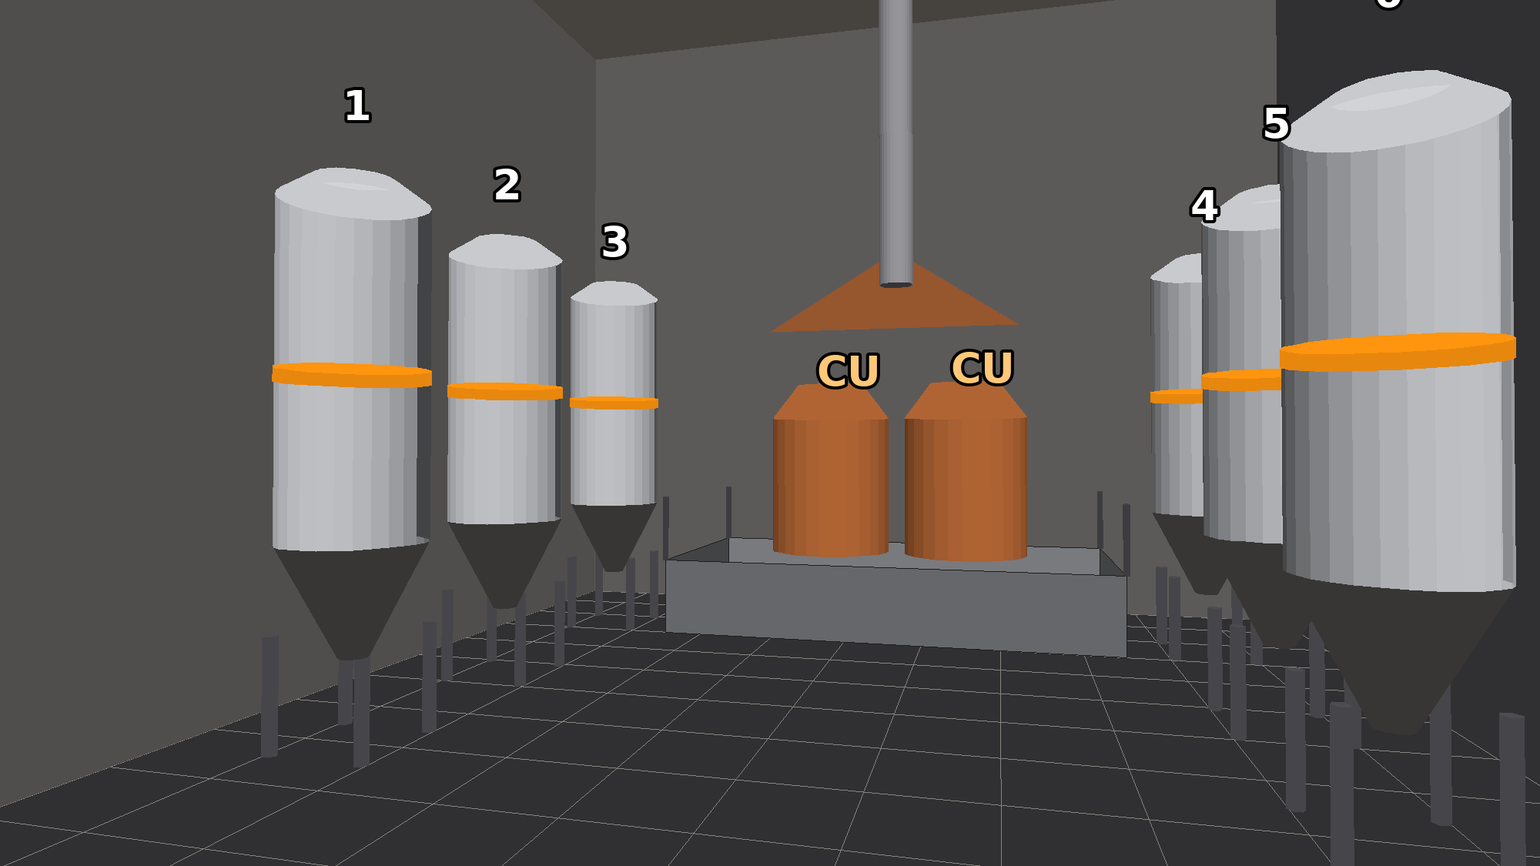
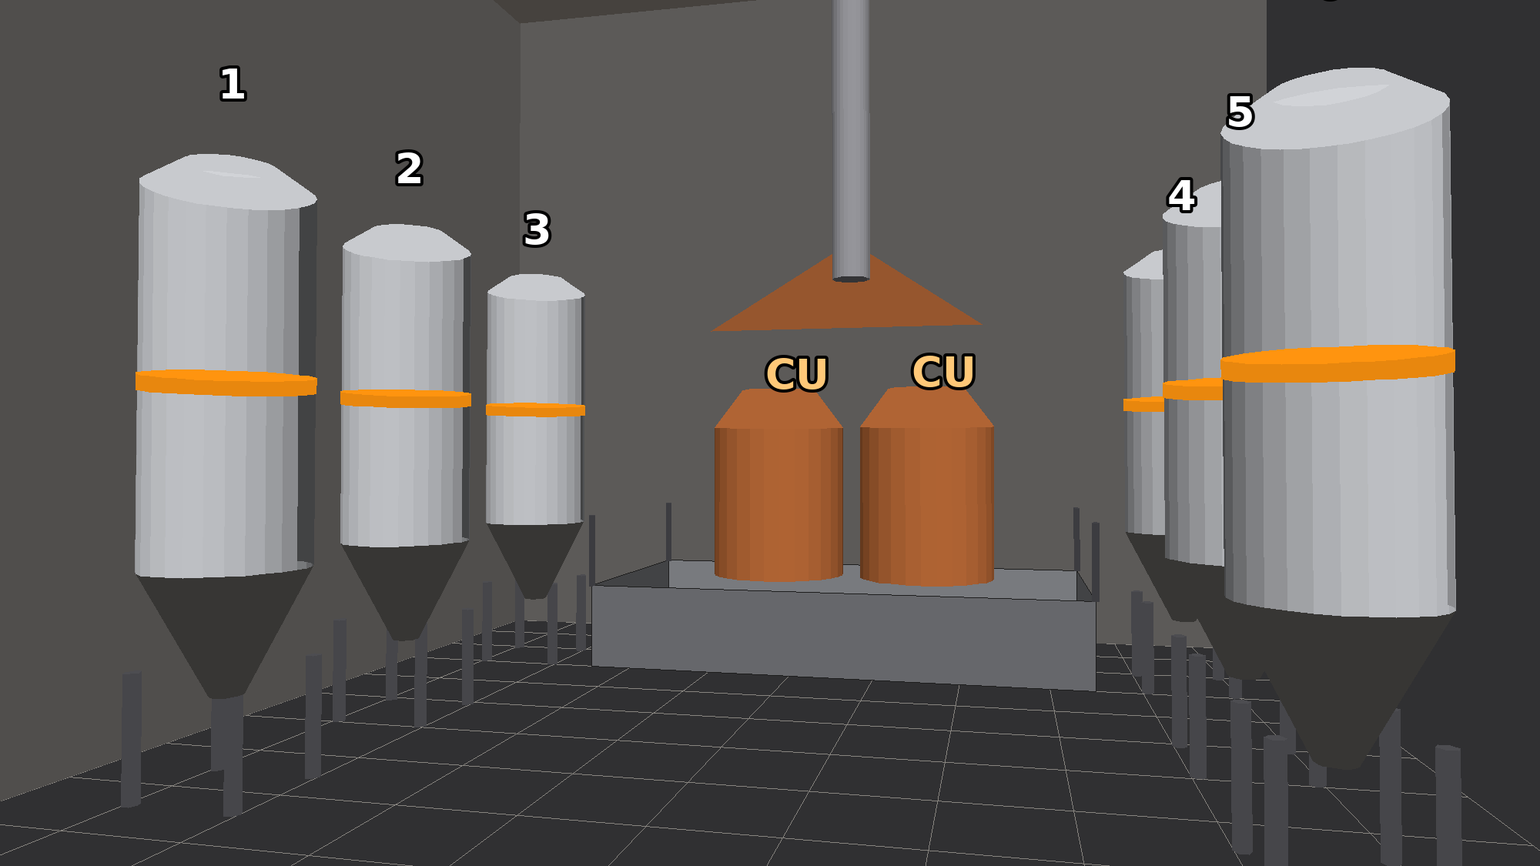
D-48: BRW-01 approved; 24mm camera, non-additive six-tank prompt, run policy, reference set
Claude-Session: https://claude.ai/code/session_0147YRZYiqd1JxwndoaNSVrj

diff --git a/visuals/tools/brw01_blockout.py b/visuals/tools/brw01_blockout.py
@@ -1,12 +1,12 @@
 #!/usr/bin/env python3
 """BRW-01 layout block-out (NOT an image of the brewery). A simple perspective projection of the LOCKED-SCENE-DNA section 4 geometry, used only
 as a layout/depth guide so a generator can count to six and see the true horseshoe. Plan units: feet; x east, y north, z up; origin = SW corner of
-the production room (44 x 48 ft; the interior glass wall is the y=0 line). Camera = on the south promenade side of the interior glass wall (about 11 ft up the mezzanine edge), SE of the hall axis, looking NNW.
+the production room (44 x 48 ft; the interior glass wall is the y=0 line). Camera = on the south promenade side of the interior glass wall (about 10.75 ft up the mezzanine edge), SE of the hall axis, looking NNW.
 Run from repo root: python3 visuals/tools/brw01_blockout.py -> visuals/generated/BRW-01-inputs/ (blockout + annotated + plan)."""
 import numpy as np, os
 from PIL import Image, ImageDraw, ImageFont
 OUT="visuals/generated/BRW-01-inputs"; W,H=2000,1125
-CAM=np.array([28.0,-11.0,10.5]); TGT=np.array([17.0,32.0,11.0]); F=21.0   # 21 mm equivalent (36 mm sensor width)
+CAM=np.array([30.0,-12.0,10.75]); TGT=np.array([20.0,32.0,11.5]); F=24.0   # 24 mm equivalent (36 mm sensor width)
 TANKS={1:(6,16),2:(6,26),3:(6,38),4:(38,38),5:(38,26),6:(38,16)}       # centres (x,y); legs 1,2 west, 3 and 4 flank the deck, 5,6 east
 R=2.5; LEG=3.0; CONE=4.0; SHELL=12.0
 fwd=TGT-CAM; fwd/=np.linalg.norm(fwd); right=np.cross(fwd,[0,0,1]); right/=np.linalg.norm(right); up=np.cross(right,fwd)

diff --git a/visuals/generation-batch-01/BRW-01.md b/visuals/generation-batch-01/BRW-01.md
@@ -1,61 +1,73 @@
 # BRW-01: Hero Tank Cloister (v2, D-47) — canonical authority for the Tank Cloister and brewing equipment
 
-- **STATUS:** NOT GENERATED — PACKAGE PREPARED; **awaiting founder approval of camera, method and gates** (D-47). Do not generate until approved.
+- **STATUS:** NOT GENERATED — **PACKAGE APPROVED FOR GENERATION (D-48)**; Run 1 (four variants) pending, to be made by the founder with ChatGPT image generation.
 - **PURPOSE:** WE MAKE THE BEER HERE. BRW-01 becomes the canonical visual authority for the Tank Cloister and equipment. It must solve what ARC-02 could not: exactly six fermenters, a true horseshoe, two copper vessels on a raised deck, and real commercial-brewery organisation.
 - **Authorities:** geometry = `LOCKED-SCENE-DNA.md` §4 + ARC-01-D (arrangement and mapping, see below). Equipment-photorealism = ARC-01-E attempt 1 **only** (never its camera, layout or symmetry). **ARC-02-A and ARC-02-C are not references for count, arrangement, cones, sleeves, deck, copper or mullions** (D-47).
 - **Original v1 prompt** (frontal, centred, daylight, two brewers, steam): superseded, kept as `BRW-01-v1-superseded.md`.
 
-## 1. PROPOSED CAMERA (intentional; replaces the ARC-02 editing setup)
-| Item | Value | Why |
-|---|---|---|
-| Position | Guest side of the interior glass wall: south promenade/mezzanine edge, **about 11 ft above the floor**, about 11 ft south of the production room, **SE of the hall axis** (plan coordinates x=28, y=-11 in a 44x48 ft room; see `BRW-01-plan-camera.png`) | Reads as the real guest vantage (promenade/mezzanine, Locked DNA §5), and is the interior continuation of the ARC-01-D hero bearing (looking NNW) |
-| Direction | NNW, about 20 degrees west of the hall's north axis | Oblique, not frontal: the horseshoe fans out and tanks overlap naturally |
-| Lens | **21-24 mm equivalent**, full frame, level, verticals straight (shift-lens look) | A 44-ft-wide hall with 19-ft tanks cannot be framed longer from inside |
-| Frame | 16:9, 2000x1125 or larger | Matches the blockout |
-| Glass | **None in frame.** Treat the interior glass as invisible: the picture is taken as if through clear, non-reflective glass; at most a thin dark-bronze edge at the extreme foreground left | Avoids the reflection and glazing failures that sank ARC-02 |
-| Time/light | Evening state: warm shielded 2200-2400K lighting dominant, narrow-beam tank-base uplights, faint indigo from the north clerestory. **Founder option:** daylight clerestory version instead (see section 6) | Evening is the state ARC-02 still needs; BRW-01 becomes its equipment reference |
-| People | **None** in the hero render (equipment is the subject; add brewers only in a later variant) | Removes extra-count and anatomy risk |
+## 1. APPROVED CAMERA (D-48)
+| Item | Value |
+|---|---|
+| Position | Guest side of the interior glass wall: south promenade/mezzanine edge, **camera height about 10.5-11 ft**, about 12 ft south of the production room, southeast of the hall axis (plan x=30, y=-12 in the 44x48 ft room; `BRW-01-plan-camera.png`) |
+| Bearing | **NNW** (about 13 degrees west of the hall's north axis), continuing ARC-01-D's visual logic |
+| Lens | **24 mm full-frame equivalent**; 22-26 mm allowed only if necessary to fit the composition. **Do not default to 21 mm** (distortion enlarges the nearest fermenter and collapses the far side of the horseshoe). Verticals corrected. Priority: readable six-tank geometry, not field of view |
+| Frame | 16:9 |
+| Glass | None visible; no frame, reflection or window edge |
+| Light | Evening/blue hour. Interior practical light about 2300K; **subtle cool ambient blue-hour fill** so stainless stays neutral and reads as stainless; restrained, architectural tank-base uplights (not theatrical beams). Do not turn the room orange |
+| People | **None** |
 
-## 2. COMPOSITION AND MAPPING (from the layout blockout; matches ARC-01-D)
-- **Left group, three tanks, receding:** tank 1 (nearest left, leg west), 2, 3 (the smallest in frame, at the north base west of the deck).
-- **Centre, raised brew deck** (~24 ft wide, 4 ft high) with **two copper-clad vessels**, copper hood, stack to the roof, stairs, 42-in guardrails; catwalk crossing behind and the west/east catwalk at +11 ft.
-- **Right group, three tanks, receding:** tank 6 **large, nearest** at the right edge, tank 5 behind it, tank 4 (north base east of the deck) furthest, partially hidden by 5 and 6. This is the same "3 | deck | 1+2 behind" arrangement seen from outside in ARC-01-D.
-- Numbering per Locked DNA: west leg south-north 1, 2; north base 3, 4; east leg north-south 5, 6. **No numerals in the image.**
-- Exactly six fermenters, two copper vessels. Every tank identical.
+## 2. COMPOSITION AND SPATIAL ORGANISATION
+Primary fact: **EXACTLY SIX FERMENTERS TOTAL, forming ONE horseshoe/U around the central raised brew deck.** The following only describes where those same six stand; it never adds tanks:
+- the **west leg recedes northward** (two fermenters, the nearer on the left of frame);
+- the **north pair flank the brew deck** (one west of the deck, one east of it);
+- the **east leg returns southward toward the camera** (two fermenters), the **nearest of them is spatially Tank 6** and appears large at the right edge, with the other east-leg fermenter and the east north-pair fermenter partly hidden behind it.
+Raised brew deck at the centre with **two copper-clad vessels**, hood, stack, stairs, 42-in guardrails; catwalk at +11 ft. **No numeral appears in the image.** Tank 3 is not "an extra tank beside the deck": it is the west member of the north pair.
 
 ## 3. EQUIPMENT VISIBILITY (must be legible, not decorative)
-Polished stainless shell; **matte graphite insulated cone** (clearly darker than the shell); four legs with foot plates; round side manway with clamp; sample valve; thermowell; dished top with top manway, relief/spunding fitting and CIP arm; butterfly valves at the cone outlets; **tri-clamp** fittings; restrained sanitary piping on the inner side of the horseshoe; pumps and a valve train at the deck foot; coiled sanitary hoses on hooks; stainless hot-liquor tank on the deck; **stainless trench drains** along the legs and in front of the deck (floor slopes to them); light **warm-grey seamless satin floor**; **exactly one narrow (~6 in) deep-marigold (~#E8870E) removable powder-coated sleeve** per fermenter (not paint, not yellow, not glowing). Copper only on the two vessels and the hood. No brass.
+Polished stainless shell; **matte graphite insulated cone** (clearly darker than the shell); four legs with foot plates; round side manway with clamp; sample valve; thermowell; dished top with top manway, relief/spunding fitting and CIP arm; butterfly valves at the cone outlets; **tri-clamp** fittings; restrained sanitary piping on the inner side of the horseshoe; pumps and a valve train at the deck foot; coiled sanitary hoses on hooks; stainless hot-liquor tank on the deck; **stainless trench drains** along the legs and in front of the deck (floor slopes to them); light **warm-grey seamless satin floor**; **exactly one narrow (~6 in) deep-marigold (~#E8870E) removable powder-coated sleeve** per fermenter (not paint, not yellow, not glowing). Exactly two copper-clad brewing vessels; the copper may continue into their associated hood/duct where the locked design requires, but no additional copper tanks. No brass.
 
-## 4. INPUTS (`visuals/generated/BRW-01-inputs/` unless noted)
+## 4. INPUTS (`visuals/generated/BRW-01-inputs/`), in priority order
 | # | File | Role |
 |---|---|---|
-| 1 | `BRW-01-layout-blockout.png` (2000x1125) | **Structure/layout guide** (depth/blockout). Six cylinders, graphite cones, sleeves, deck, two copper cylinders, hood and stack, from the proposed camera. Geometry only: copy count, positions, scale and camera, not its flat look. Not a photograph |
-| 2 | `visuals/generated/ARC-01-E-inputs/ARC-01-D-hall-crop-2x.png` | Arrangement reference (daylight exterior view of the same hall) |
-| 3 | `visuals/generated/ARC-01-E-external-crop-attempt1.webp` | **Equipment-realism reference only** |
-| - | `BRW-01-layout-blockout-annotated.png`, `BRW-01-plan-camera.png` | For humans only. **Do not upload the annotated version to the generator** (numerals leak into the image) |
+| 1 | `BRW-01-layout-blockout.png` (2000x1125, unannotated) | **Composition / spatial-count reference.** Six cylinders, graphite cones, sleeves, deck, two copper cylinders, hood, stack, at the approved camera. Not a photograph; copy count, positions, scale and camera, not its flat look |
+| 2 | `2-ARC-01-D-hall-arrangement-ref.png` (1740x840) | **Canonical architectural/arrangement reference** (the hall from outside, daylight). Arrangement only |
+| 3 | `3-ARC-01-E-attempt1-equipment-realism-ref-ONLY.png` (2000x965) | **Equipment-detail/photorealism reference ONLY.** Do not inherit its frontal symmetry, camera or layout |
+| - | `BRW-01-layout-blockout-annotated.png`, `BRW-01-plan-camera.png` | Humans only. **Do NOT upload the annotated blockout** (numerals leak) |
+Not references: ARC-02-A/B/C (never for Tank Hall geometry).
 
-## 5. GENERATION METHOD (proposed)
-1. Use a model that accepts a **structure/layout reference** (image-guided generation, depth/line-guided, or "use this image as a layout") plus style references. Upload #1 as the layout/structure guide at high strength; #3 for equipment detail; #2 for arrangement only. Text prompt below.
-2. If the tool only supports one image: upload #1 and use the text; add #3 in a second pass for detail only if needed.
-3. Generate **4 variants in one run**. Select by count. If a variant has the right count, a **targeted** fix may be allowed only after founder approval.
-4. **Iteration cap (proposed):** two runs (8 variants). If none passes the count/arrangement gates, stop and report; no endless regeneration (the ARC-02 lesson).
-5. Never retouch or script-grade. Log tool, model, references accepted, strength, seed, variant, date.
+## 5. GENERATION METHOD AND RUN POLICY (D-48)
+- Tool: **ChatGPT image generation** with the actual unannotated blockout plus the two canonical references. **The blockout is not mathematically enforced** (no ControlNet-level lock); the acceptance gates, not the method, decide usability.
+- **Run 1 = four variants.** STOP and formally review all four before authorising Run 2. Maximum two runs / eight variants in total.
+- If any Run-1 variant scores >= 90, has no hard fail and passes every mandatory gate, **do not generate Run 2** to look for something prettier. If all four fail, report exactly why before Run 2.
+- **Hard count gate first:** count fermenters manually twice at enlarged scale before aesthetics. 5 = reject; 6 = continue; 7+ = reject. Count copper vessels independently (exactly two).
+- No retouching, no scripted grading. Log tool, references accepted, variant, date, run number.
 
 ## MASTER PROMPT (self-contained; paste whole)
 ```
-Photorealistic professional architectural interior photograph, full-frame camera, 21-24mm equivalent shift-lens look, level camera, perfectly straight verticals, real materials, natural imperfections, no CGI look. 16:9. The camera is on the guest side of a clear glass wall at the south end of a double-height brewing hall (about 38 ft clear), about 11 ft above the floor, looking north-north-west across the open end of a horseshoe of fermenters into the brewers' working floor. No glass, frame or reflection is visible in the picture.
-Follow the supplied layout image exactly for camera, count and positions: EXACTLY SIX identical polished stainless-steel conical fermenters, each about 5 ft in diameter and about 19 ft tall including legs, in a HORSESHOE open toward the camera. Three on the left receding in depth (the nearest on the left, then two further away, the third beside the brew deck); in the centre a RAISED STEEL BREW DECK (about 4 ft high, 24 ft wide) with stairs and 42-inch guardrails carrying EXACTLY TWO copper-clad brewing vessels with domed tops (about 7 ft diameter) beneath one copper steam hood and a stack rising to the roof, with a stainless hot-liquor tank, pumps, a valve train and coiled sanitary hoses; on the right one LARGE fermenter nearest the camera, a second behind it, and a third furthest, the two behind partly hidden by the nearest one. A grated steel catwalk with 42-inch guardrails and kick plates at about 11 ft above the floor runs along both legs and behind the deck, with stairs.
-Every fermenter: polished cylindrical stainless shell with a round side manway with clamp, sample valve, tri-clamp connections, dished top with top manway, CIP arm and relief fitting; a matte GRAPHITE insulated cone clearly darker than the shell; four short legs on foot plates; butterfly valve at the cone outlet; and exactly ONE narrow (about 6 inches) deep marigold-orange removable powder-coated sleeve of about #E8870E around the middle of the shell: deep orange, not yellow, not glowing. Restrained, tidy sanitary piping on the inner side of the horseshoe. Light warm-grey seamless satin production floor with stainless trench drains along the legs and in front of the deck that catch tiny highlights, floor sloping to the drains. The equipment looks like real commercial brewery equipment, as in the equipment reference image, not like props.
-LIGHT: evening. Warm shielded 2300K architectural lighting and narrow-beam uplights at the base of each tank; the Tank Cloister is the brightest large feature but nothing is clipped; stainless shows warm elongated highlights with darker falloff; copper has restrained warm reflections; the back wall and ceiling fall off darker; faint indigo light only from the high north clerestory; realistic contact shadows; no haze, no bloom, no star flares, no god rays, no steam. No people. No logos, no text, no numerals.
+Photorealistic professional architectural interior photograph, full-frame camera, 24mm equivalent lens, level camera with corrected, perfectly straight verticals, real materials, natural imperfections, no CGI look. 16:9.
+
+THE ONE RULE: EXACTLY SIX FERMENTERS TOTAL, forming ONE horseshoe (U) around a central raised brew deck. Six, not five, not seven, not eight. Everything below only describes where those same six stand; it never adds a tank.
+
+Use the first reference image (a plain 3D layout block-out) for camera position, composition, count and spatial positions; use the second reference (the building from outside) for the hall and the arrangement; use the third reference only for the level of real sanitary-brewery equipment detail, not for its camera or layout. The result must be a photograph of real equipment, not a copy of the flat block-out.
+
+Camera: on the guest side of a clear glass wall at the south end of a double-height brewing hall (about 38 ft clear), about 10.5 to 11 ft above the floor, southeast of the hall axis, looking north-north-west across the open end of the horseshoe into the brewers' working floor. Oblique, not frontal, not symmetric. No glass, window frame or reflection is visible.
+
+Spatial organisation of the six fermenters: the west leg recedes northward (two fermenters, on the left of the frame); the two fermenters of the north pair flank the central brew deck (one west of it, one east of it); the east leg returns southward toward the camera (two fermenters), its nearest fermenter standing large at the right edge of the frame with the other east-leg fermenter and the east north-pair fermenter partly hidden behind it. No numerals appear anywhere.
+
+Centre: a raised steel brew deck (about 4 ft high, 24 ft wide) with stairs and 42-inch guardrails carrying EXACTLY TWO copper-clad brewing vessels with domed tops (about 7 ft diameter) beneath one copper steam hood and stack rising to the roof, with a stainless hot-liquor tank, pumps, a valve train and restrained coiled sanitary hoses. A grated steel catwalk with 42-inch guardrails and kick plates at about 11 ft above the floor runs along both legs and behind the deck, with stairs. No brass.
+
+Every fermenter is identical, about 5 ft in diameter and 19 ft tall including legs: a polished stainless cylindrical shell with a round side manway with clamp, sample valve, tri-clamp connections, dished top with top manway, CIP arm and relief fitting; a matte GRAPHITE insulated cone clearly darker than the shell; four short legs on foot plates; a butterfly valve at the cone outlet; and exactly ONE narrow (about 6 inches) deep marigold-orange removable powder-coated sleeve of about #E8870E around the middle of the shell (deep orange, not yellow, not glowing). Restrained, tidy sanitary piping on the inner side of the horseshoe. A light warm-grey seamless satin production floor with stainless trench drains along the legs and in front of the deck that catch tiny highlights, floor sloping to the drains. It looks like real commercial brewery equipment, not props.
+
+Light: blue-hour evening. Interior practical lighting about 2300K, shielded and low, plus subtle cool blue-hour ambient fill from the high north clerestory, so the stainless stays neutral and reads as stainless; the room must not turn orange. Narrow, restrained, architectural uplights at the base of each tank, not theatrical beams. The tank cloister is the brightest large feature but nothing is clipped; stainless shows warm elongated highlights with darker falloff; copper has restrained warm reflections; the back wall and ceiling fall off darker; realistic contact shadows. No people. No logos, text or numerals. No haze, bloom, star flares, god rays or steam.
 ```
 
 ## NEGATIVE
 ```
-five tanks, seven tanks, eight tanks, extra fermenters, straight row of tanks, circular arrangement, frontal symmetric view, changed camera, silver cones, orange or yellow cones, thick sleeves, yellow sleeves, glowing sleeves, painted bands, extra copper vessels, brass, glass reflections, window frames, daytime sky, orange wash, glossy showroom floor, wet mirror floor, star flares, bloom, HDR, haze, fog, steam, neon, string lights, pendant lights, logos, text, numerals, people, patterned or decorated tanks, sci-fi or fantasy machinery, glowing pipes, cartoon, CGI look
+five tanks, seven tanks, eight tanks, extra fermenters, straight row of tanks, circular arrangement, frontal symmetric view, changed camera, silver cones, orange or yellow cones, thick sleeves, yellow sleeves, glowing sleeves, painted bands, extra copper vessels, brass, glass reflections, window frames, daytime sky, orange wash, amber monochrome room, glossy showroom floor, wet mirror floor, star flares, bloom, HDR, haze, fog, steam, neon, string lights, pendant lights, logos, text, numerals, people, patterned or decorated tanks, sci-fi or fantasy machinery, glowing pipes, cartoon, CGI look
 ```
 
-## 6. FOUNDER DECISIONS NEEDED BEFORE GENERATING
-(a) Camera as proposed? (b) Evening lighting, or the daylight version? (c) No people in the hero render? (d) Iteration cap of two runs? (e) A different tool that accepts a layout/structure reference, since the tool used for ARC-02 ignored the mask.
+## 6. Founder decisions (all resolved, D-48)
+Camera approved with refinement (24 mm, 10.5-11 ft); evening/blue hour with cool ambient fill; no people; two-run cap; ChatGPT image generation with the unannotated blockout.
 
 ## ACCEPTANCE (see `visuals/generated/BRW-01-REVIEW-SHEET.md`; do not lower)
 Six fermenters counted twice; two copper vessels; horseshoe/oblique arrangement matches the blockout and D mapping; graphite cones; six narrow ~#E8870E sleeves; deck, hood, stack, stair, guardrails, catwalk; sanitary piping, tri-clamps, butterfly valves, pumps, hoses; legs/foot plates; trench drains visible; warm-grey satin floor; evening lighting without orange wash; brewer-credible equipment; rubric >= 90, no hard fail, founder approval.

diff --git a/docs/decisions/DECISIONS.md b/docs/decisions/DECISIONS.md
@@ -61,3 +61,4 @@
 | D-45 | 2026-10-10 | **Founder decision:** ARC-02-A waiver REJECTED (eight-tank hall, no canonical brewhouse; stays the best night-exterior reference, not canonical). ARC-02-B REJECTED (scripted grade proves pixel grading cannot make a convincing night hall; kept for provenance only). Authorized **one** controlled generative attempt, ARC-02-C: masked replacement of only the interior behind the Tank Hall glazing; ARC-02-A = night exterior authority, ARC-01-D = hall camera/mullion/six-tank geometry, ARC-01-E attempt 1 = equipment-realism reference only. 13-gate acceptance, rubric >= 90, no lowering. If C fails: stop and report; no ARC-02-D automatically. Package: `generation-batch-01/ARC-02-C.md`, `ARC-02-C-REVIEW-SHEET.md`, `ARC-02-C-inputs/`, `tools/arc02c_tools.py`. |
 | D-46 | 2026-10-10 | ARC-02-C attempt 1 (founder-supplied, full-frame regeneration rather than a masked hall edit) reviewed: **67/100, FAILED**. Seven fermenters, silver cones, thick glowing sleeves, sunset/tree reflections in glass, orange wash, outside-hall and mullions not preserved; two copper vessels and brewhouse deck are good. Per D-45: STOP; no ARC-02-D automatically. ARC-02-A remains best night-exterior reference, not canonical. |
 | D-47 | 2026-10-10 | **FOUNDER: ARC-02 ON HOLD — TOOL-LIMITED; no waiver, no ARC-02-D.** ARC-02 canonical image: NONE. D-46 stop accepted; ARC-02-C attempt 1 rejected (67/100, hard fail), classed primarily as a tool/workflow limitation, not an architectural failure. **ARC-02-A = APPROVED NIGHT ATMOSPHERE REFERENCE ONLY, NON-CANONICAL GEOMETRY.** It may establish: deep-indigo blue-hour mood, overall exterior exposure, warm 2200-2400K hospitality lighting, court occupancy/energy, restrained landscape lighting, rill reflections, warm-interior/cool-exterior relationship. It may NOT establish: fermenter count, Tank Cloister arrangement, brewhouse geometry, cones, sleeves, brew deck, copper placement, or mullion geometry where it conflicts with ARC-01-D. **ARC-01-D remains the sole canonical architectural exterior and geometry authority.** ARC-02-B and ARC-02-C attempt 1: rejected, provenance only. **Visual-Lock sequence changed:** ARC-01-D → BRW-01 → GLS-01 → GLS-02 → Visual Lock review → return to ARC-02 only with (1) a genuinely mask-aware/reference-aware editing workflow that preserves locked pixels, or (2) a strong canonical BRW-01 that lets us build the night hall without hallucinating equipment. **BRW-01 = canonical authority for the Tank Cloister and brewing equipment** (ARC-01-D geometry authority; ARC-01-E attempt 1 equipment realism only; never inherit ARC-02-A/C count errors). BRW-01 package prepared (v2 prompt, layout blockout, review sheet); **not generated** pending founder approval of camera, method and gates. |
+| D-48 | 2026-10-10 | **BRW-01 package APPROVED for generation with camera refinement.** Camera: southeast/mezzanine guest-side oblique, height ~10.5-11 ft, bearing NNW, corrected verticals, **24 mm** (22-26 mm only if needed; not 21 mm); priority is readable six-tank geometry. Evening/blue hour: ~2300K practicals plus subtle cool ambient fill so stainless reads as stainless, no orange wash, restrained architectural uplights. No people. Prompt rewritten with primary rule "EXACTLY SIX FERMENTERS TOTAL, ONE horseshoe around the central raised brew deck", spatial organisation stated non-additively (west leg recedes north; north pair flank the deck; east leg returns south; nearest east-leg tank is spatially Tank 6; no numerals). Exactly two copper vessels (copper may continue into hood/duct; no extra copper tanks; no brass). References by priority: (1) unannotated blockout = composition/count; (2) ARC-01-D hall = arrangement; (3) ARC-01-E attempt 1 = equipment realism only; annotated blockout never uploaded; ARC-02-A/B/C never used for geometry. Tool: ChatGPT image generation; blockout is not mathematically enforced; gates decide. Run policy: max two runs/eight variants; Run 1 = four, then stop and review; no Run 2 if a Run-1 variant passes everything. Hard count gate: count twice, 5 reject, 6 continue, 7+ reject. Rubric >= 90, no hard fail. |
